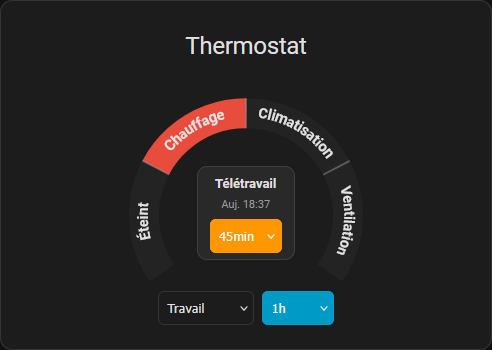
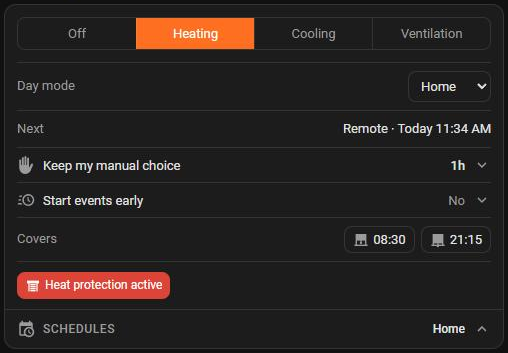
docs: document the schedules panel and refresh the screenshots

diff --git a/README.md b/README.md
@@ -10,7 +10,7 @@ A clean, compact Lovelace card for Home Assistant to control the **HomeShift** i
 
 ## Overview
 
-HomeShift Card gives you full control over your HomeShift-managed thermostat and daily schedule in one place: a compact list of labelled rows, with the less frequent settings folded away until you need them.
+HomeShift Card gives you full control over your HomeShift-managed thermostat and daily schedule in one place: a compact list of labelled rows, with the less frequent settings folded away until you need them. With the Scheduler integration, a panel that slides up over the card shows the schedules of each day mode as 24 h timelines, and edits them.
 
 ---
 
@@ -23,7 +23,7 @@ The first row is a segmented control with one button per thermostat mode; the ac
 | Mode        | Colour of the active button |
 | ----------- | --------------------------- |
 | Off         | Gray                        |
-| Heating     | Red (HA heating colour)     |
+| Heating     | Orange (HA heating colour)  |
 | Cooling     | Blue (HA cooling colour)    |
 | Ventilation | Green (HA fan colour)       |
 
@@ -60,13 +60,28 @@ Pausing or resuming never moves a cover: it simply skips, or rejoins, the next s
 
 ### Alerts
 
-At the bottom of the card, a chip appears while the heat protection keeps the covers down, and a blinking chip names the covers tonight's close had to leave open (window open). Past three covers the chip shows a count; tap it (or focus it and press Enter) to read the names. A calm, non-blinking chip names the paused covers; tap it to open the pause row. Nothing is shown while everything is in order.
+At the bottom of the card (above the Schedules bar), a chip appears while the heat protection keeps the covers down, and a blinking chip names the covers tonight's close had to leave open (window open). Past three covers the chip shows a count; tap it (or focus it and press Enter) to read the names. A calm, non-blinking chip names the paused covers; tap it to open the pause row. Nothing is shown while everything is in order.
+
+### Schedules
+
+![Schedules panel](assets/schedules_preview.png)
+
+With the [Scheduler](https://github.com/nielsfaber/scheduler-component) integration, a **Schedules** bar at the foot of the card names the current day mode. Tap it to slide a panel up over the card. It has one tab per day mode (a dot marks the current one, shown on opening and whenever the mode changes) and the 24 h timelines of the schedules tagged with the tab's mode, grouped by room with the temperature it measures, heating first, then cooling. A vertical line marks the current time; a disabled schedule stays readable, hatched. The switch of each row enables or disables the schedule, and turning a room's cooling on turns its heating off (and the other way round). The pencil next to the tabs shows the [scheduler-card](https://github.com/nielsfaber/scheduler-card) list of the tab instead, with **Add** and the full editor, filtered on its mode and on `schedule_entities`; press it again to come back to the timelines. Tap the bar again, or press Escape, to fold the panel back.
+
+The panel is as tall as its content and anchored to the foot of the card, so the top of the card stays in sight; when the schedules are taller than the card, they scroll inside the panel. The card keeps its height, so the dashboard does not move.
+
+Tag each schedule with the name of its day mode (in the scheduler-card editor, **Options → Tags**). The bar only appears once a schedule carries such a tag; without the Scheduler integration the card looks as before.
 
 ---
 
 ## Requirements
 
 This card requires the [HomeShift integration](https://github.com/Gamso/homeshift) to be installed and configured. The card reads directly from the entities exposed by the integration.
+
+The schedules panel is optional and needs:
+
+- [scheduler-component](https://github.com/nielsfaber/scheduler-component) (the Scheduler integration), for the timelines
+- [scheduler-card](https://github.com/nielsfaber/scheduler-card), for the pencil that adds and edits schedules
 
 ---
 
@@ -115,6 +130,11 @@ open_covers_entity: button.homeshift_open_covers
 close_covers_entity: button.homeshift_close_covers
 covers_left_open_entity: binary_sensor.homeshift_covers_left_open
 covers_inhibited_entity: sensor.homeshift_covers_inhibited
+# Schedules panel (optional)
+show_schedules: true
+schedule_entities:
+  - climate.living_room
+  - climate.bedroom
 ```
 
 Every entity option defaults to the entity the HomeShift integration creates, so a plain `type: custom:homeshift-card` works with a default installation. Set an option to an empty string to hide the corresponding element. If the day mode or thermostat mode entity does not exist, the card shows an "Entity not found" message instead of the controls.
@@ -138,8 +158,12 @@ Every entity option defaults to the entity the HomeShift integration creates, so
 | `cover_entity`             | string  | _(none)_                                   | Legacy: cover opened/closed by the times; overrides the two buttons when set |
 | `covers_left_open_entity`  | string  | `binary_sensor.homeshift_covers_left_open` | "Not closed" chip                                                            |
 | `covers_inhibited_entity`  | string  | `sensor.homeshift_covers_inhibited`        | Cover automation pause row and "Paused" chip                                 |
+| `show_schedules`           | boolean | `true`                                     | Schedules panel; `false` hides it                                            |
+| `schedule_entities`        | list    | _(all)_                                    | Schedules panel: only the schedules acting on these entities                 |
 
 All options can also be set from the visual editor.
+
+---
 
 ## Development
 
@@ -152,6 +176,8 @@ npm test
 ```
 
 CI runs the same commands, checks that the committed `dist/` matches a fresh build, and validates the repository with the HACS action.
+
+The devcontainer (`.devcontainer/`, VS Code → **Dev Containers: Reopen in Container**) runs a Home Assistant with the HomeShift entities simulated, the Scheduler integration, sample schedules and a **HomeShift** dashboard, at http://localhost:8123 (login `admin` / `admin`). See [.devcontainer/README.md](.devcontainer/README.md).
 
 ---
 
